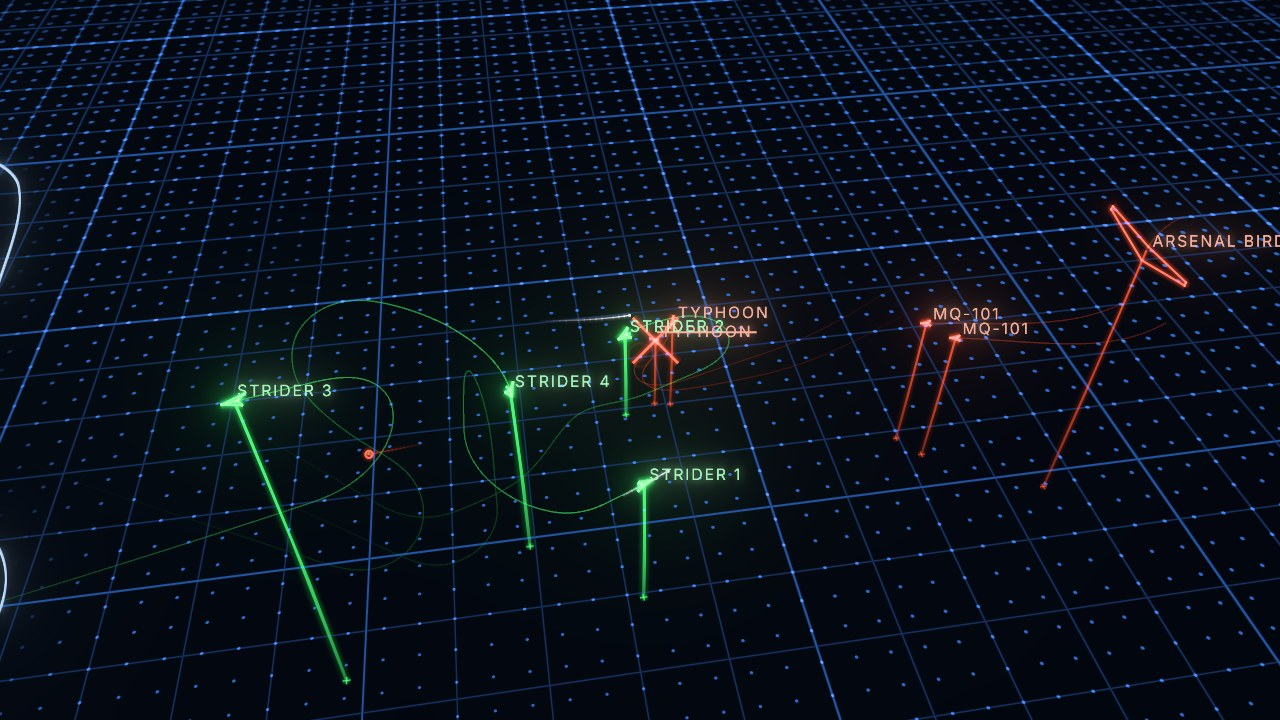
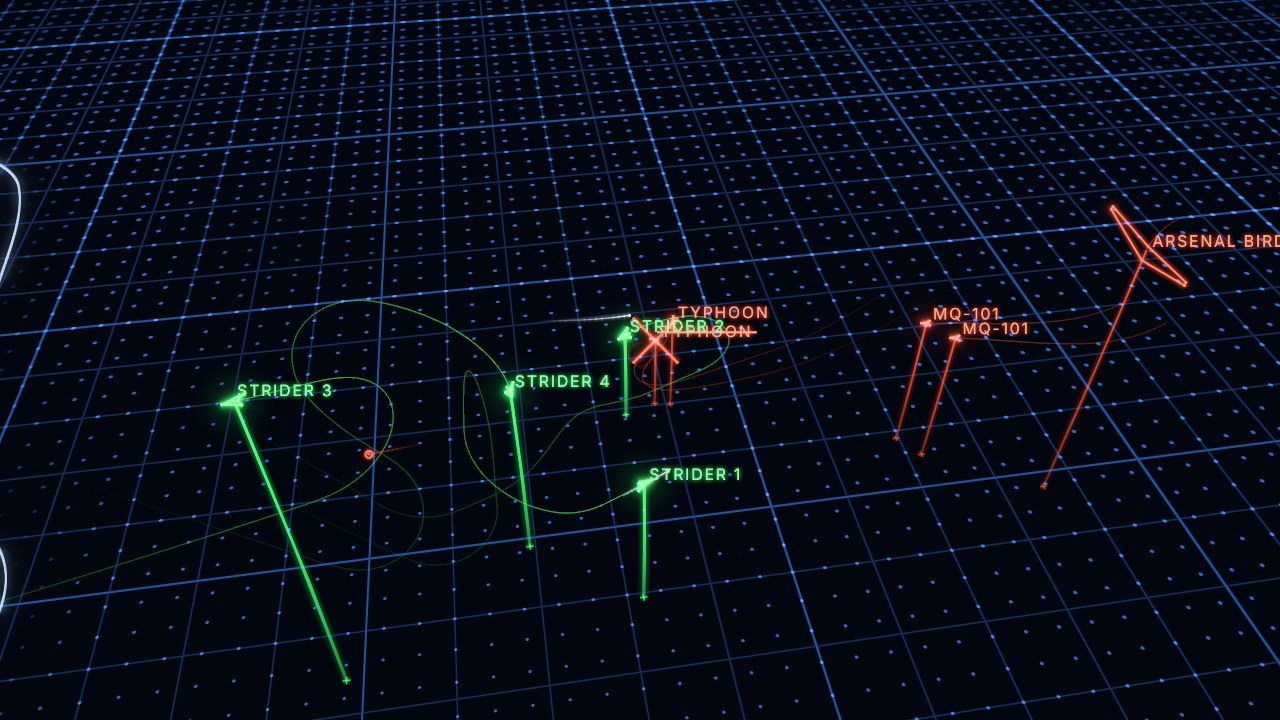
Bloom: a tight glow, names with their own baked halo again
- Names: the glow in the side's colour is baked into the label texture again (shadowBlur 14 / 6,
  as before r187), its alpha as LIN(a) so blending in linear light doesn't widen the halo; the
  half-resolution names pass into the bloom (PIPE.names, LABEL_LAYER) is gone — no blurred letters
- Bloom: only the two finest blur levels (BLOOM.mips -> bloomTintColors, radius 0): a distinct halo
  around glyphs, missiles and bursts instead of a wide haze
- Cache-buster v=52, preview.gif and screenshots re-rendered, docs updated

Claude-Session: https://claude.ai/code/session_01TyqJ8ZfWjb8MGaeFLXUS6D

diff --git a/js/core.js b/js/core.js
@@ -64,9 +64,10 @@ const TEX = {
 /* ===== Text labels =====
    One texture per (text, colour, struck), shared through LABEL_CACHE and reference-counted by setLabel: when no sprite
    shows a label any more (a colour or the squadron name changed) its texture is freed, so edits never pile up. Sprites with sizeAttenuation off keep a constant size on screen.
-   The look of the replay: wide-spaced, light, a near-white core in the side's tint — crisp: the glow around it comes
-   from bloom (property bloom, main.js PIPE), never baked into the texture (it would stay with bloom off and pile up
-   with it on). */
+   The look of the replay: wide-spaced, light, a near-white core in the side's tint over a tight glow in the side's
+   colour, baked into the texture (as before r187: clear letters with a distinct halo, not bloom's wide smudge). The
+   texture is blended in linear light, which would make the halo's faint tail look much wider: its alpha goes in as
+   LIN(a), so over the dark map it looks as it did when blended on screen. */
 const LABEL_FONT = 26, LABEL_H = 44, LABEL_PAD = 12;
 const LABEL_FACE = `400 ${LABEL_FONT}px "Bahnschrift", "Eurostile", "DIN Alternate", "Segoe UI", Arial, sans-serif`;
 const LABEL_CACHE = new Map();
@@ -74,13 +75,19 @@ function labelMat(text, color, struck) {
   const key = text + '|' + color + '|' + (struck ? 1 : 0);
   let m = LABEL_CACHE.get(key);
   if (m) return m;
-  const c = document.createElement('canvas'), g = c.getContext('2d');
+  const c = document.createElement('canvas'), g = c.getContext('2d', { willReadFrequently: true });   // read back once (the halo)
   const font = () => { g.font = LABEL_FACE; g.letterSpacing = '3px'; };
   font(); const w = Math.ceil(g.measureText(text).width) + LABEL_PAD * 2;
   c.width = w; c.height = LABEL_H; font();
   const L = THREE.LinearSRGBColorSpace, core = '#' + new THREE.Color().setStyle(color, L).lerp(PAL.white, 0.55).getHexString(L), y = LABEL_H / 2 + 1;   // blended on screen (sRGB), not in linear
-  g.textBaseline = 'middle'; g.fillStyle = core; g.fillText(text, LABEL_PAD, y);
-  if (struck) { g.strokeStyle = core; g.lineWidth = 3; g.beginPath(); g.moveTo(LABEL_PAD - 6, y); g.lineTo(w - LABEL_PAD + 6, y); g.stroke(); }
+  g.textBaseline = 'middle'; g.shadowColor = color; g.fillStyle = color;
+  g.shadowBlur = 14; g.fillText(text, LABEL_PAD, y); g.shadowBlur = 6; g.fillText(text, LABEL_PAD, y);
+  if (struck) { g.strokeStyle = color; g.shadowBlur = 8; g.lineWidth = 3; g.beginPath(); g.moveTo(LABEL_PAD - 6, y); g.lineTo(w - LABEL_PAD + 6, y); g.stroke(); }
+  const im = g.getImageData(0, 0, w, LABEL_H), d = im.data;   // the halo's alpha into linear light (the letters are opaque)
+  for (let i = 3; i < d.length; i += 4) d[i] = Math.round(LIN(d[i] / 255) * 255);
+  g.putImageData(im, 0, 0);
+  g.shadowBlur = 0; g.fillStyle = core; g.fillText(text, LABEL_PAD, y);
+  if (struck) { g.strokeStyle = core; g.stroke(); }
   const tex = new THREE.CanvasTexture(c); tex.colorSpace = THREE.SRGBColorSpace; tex.minFilter = THREE.LinearFilter; tex.generateMipmaps = false;
   m = new THREE.SpriteMaterial({ map: tex, transparent: true, depthWrite: false, depthTest: false, sizeAttenuation: false });
   m.userData.shared = true; m.userData.aspect = w / LABEL_H; m.userData.key = key; m.userData.refs = 0;
@@ -88,13 +95,12 @@ function labelMat(text, color, struck) {
   return m;
 }
 /* label sprite: bottom-left corner at the anchor; setLabel swaps its material */
-const LABEL_SCALE = 0.027;   // height at distance 1 (camera fov 40°: ≈ 3.7 % of the screen height, the padding included)
+const LABEL_SCALE = 0.027;   // height at distance 1 (camera fov 40°: ≈ 3.7 % of the screen height, the glow included)
 /* label size factor: names are a share of the screen height, so on screens narrower than square (phones in
    portrait) they shrink with the aspect (down to LABEL_MIN_K), or they would be as wide as the screen */
 const LABEL_MIN_K = 0.55, LABEL_SPRITES = [];   // every label sprite ever made (pooled with its unit: bounded)
 let LABEL_K = 1;
-const LABEL_LAYER = 1;   // names are on layer 1 too: the bloom source pass of the names (main.js PIPE.names)
-function makeLabel() { const s = new THREE.Sprite(); s.center.set(0.02, 0.3); s.renderOrder = 10; s.layers.enable(LABEL_LAYER); LABEL_SPRITES.push(s); return s; }
+function makeLabel() { const s = new THREE.Sprite(); s.center.set(0.02, 0.3); s.renderOrder = 10; LABEL_SPRITES.push(s); return s; }
 function sizeLabel(s) { const a = s.material.userData.aspect; if (a) s.scale.set(LABEL_SCALE * LABEL_K * a, LABEL_SCALE * LABEL_K, 1); }
 function setLabelScale(aspect) { LABEL_K = clamp(aspect, LABEL_MIN_K, 1); for (const s of LABEL_SPRITES) sizeLabel(s); }
 function setLabel(s, text, color, struck) {

diff --git a/js/main.js b/js/main.js
@@ -88,28 +88,21 @@ async function warmShaders() {
   const hidden = []; scene.traverse(o => { if (!o.visible) hidden.push(o); });
   const counts = [GLOW.mesh.count, LINES.mesh.geometry.instanceCount];
   hidden.forEach(o => { o.visible = true; }); GLOW.mesh.count = 1; LINES.mesh.geometry.instanceCount = 1;
-  const ps = [], mask = camera.layers.mask;
+  const ps = [];
   try {
     ps.push(PIPE.on ? PIPE.scene.compileAsync(renderer) : renderer.compileAsync(scene, camera));
-    if (PIPE.on) { camera.layers.set(LABEL_LAYER); ps.push(PIPE.names.compileAsync(renderer)); }   // its own target (half res, no MSAA)
-  } finally { camera.layers.mask = mask; hidden.forEach(o => { o.visible = false; }); GLOW.mesh.count = counts[0]; LINES.mesh.geometry.instanceCount = counts[1]; }
+  } finally { hidden.forEach(o => { o.visible = false; }); GLOW.mesh.count = counts[0]; LINES.mesh.geometry.instanceCount = counts[1]; }
   await Promise.race([Promise.all(ps.map(p => p.catch(e => { console.warn('shader warm-up failed', e); }))), new Promise(r => setTimeout(r, WARM_WAIT))]);
 }
 
-/* ---- render pipeline (RenderPipeline): the scene pass plus bloom (CFG.bloom: glow around what is brighter than the
-   threshold — glyph cores, missiles, bursts — and a highlight roll-off (rolloff()), so overlapping additive lines fade
-   to white instead of clipping). The names have no glow of their own (core.js labelMat) and their light cores sit
-   around the threshold (red ones below it): a half-resolution pass of LABEL_LAYER adds them × BLOOM.names to the
-   bloom's input only — every name glows, the text on screen and the map stay as they are.
-   Bloom off: plain renderer.render. ---- */
-const BLOOM = { strength: 0.15, radius: 0.45, threshold: 0.75, knee: 0.3, names: 1.2 };   // strength at CFG.bloomStrength = 100 %; threshold: linear luminance (glyph cores, not the map)
-const PIPE = { on: false, key: null, rp: null, scene: null, names: null, bloom: null };
-function initPipeline() {
-  PIPE.scene = THREE.TSL.pass(scene, camera);
-  const L = new THREE.Layers(); L.set(LABEL_LAYER);
-  PIPE.names = THREE.TSL.pass(scene, camera, { samples: 0 }).setResolutionScale(0.5); PIPE.names.setLayers(L);
-  PIPE.rp = new THREE.RenderPipeline(renderer);
-}
+/* ---- render pipeline (RenderPipeline): the scene pass plus bloom (CFG.bloom: a glow around what is brighter than the
+   threshold — glyph cores, missiles, bursts — kept tight: only the two finest blur levels (BLOOM.mips), so a glyph
+   gets a distinct halo, not a wide haze) and a highlight roll-off (rolloff()), so overlapping additive lines fade to white
+   instead of clipping. The names carry their own baked glow (core.js labelMat) and stay out of the bloom's input
+   (their cores sit around the threshold). Bloom off: plain renderer.render. ---- */
+const BLOOM = { strength: 0.15, radius: 0, threshold: 0.75, knee: 0.3, mips: [1, 0.5, 0, 0, 0] };   // strength at CFG.bloomStrength = 100 %; threshold: linear luminance (glyph cores, not the map); mips: weights of the blur levels (bloomTintColors), the wide ones off
+const PIPE = { on: false, key: null, rp: null, scene: null, bloom: null };
+function initPipeline() { PIPE.scene = THREE.TSL.pass(scene, camera); PIPE.rp = new THREE.RenderPipeline(renderer); }
 function updatePipeline() {   // after a property change; a new combination compiles its passes on the next frame
   if (!PIPE.rp) return;
   const k = bloomK(), key = k > 0 ? 'b' : '';
@@ -118,7 +111,8 @@ function updatePipeline() {   // after a property change; a new combination comp
   PIPE.key = key; PIPE.on = key !== '';
   if (PIPE.bloom) { PIPE.bloom.dispose(); PIPE.bloom = null; }
   if (!PIPE.on) return;
-  PIPE.bloom = THREE.bloom(PIPE.scene.add(PIPE.names.mul(BLOOM.names)), k, BLOOM.radius, BLOOM.threshold); PIPE.bloom.smoothWidth.value = BLOOM.knee;
+  PIPE.bloom = THREE.bloom(PIPE.scene, k, BLOOM.radius, BLOOM.threshold); PIPE.bloom.smoothWidth.value = BLOOM.knee;
+  PIPE.bloom.bloomTintColors.forEach((c, i) => c.setScalar(BLOOM.mips[i]));
   PIPE.rp.outputNode = rolloff(PIPE.scene.add(PIPE.bloom)); PIPE.rp.needsUpdate = true;
 }
 const bloomK = () => CFG.bloom ? BLOOM.strength * clamp(CFG.bloomStrength, 0, 300) / 100 : 0;

diff --git a/index.html b/index.html
@@ -4,28 +4,28 @@
 <meta charset="utf-8">
 <title>Wireframe Skies</title>
 <link rel="icon" type="image/svg+xml" href="favicon.svg">
-<link rel="stylesheet" href="style.css?v=51">
+<link rel="stylesheet" href="style.css?v=52">
 </head>
 <body>
 <canvas id="c"></canvas>
 <div id="splash"><div class="t">WIREFRAME SKIES</div><div class="s">LOADING MISSION DATA…</div><div class="dots"><i></i><i></i><i></i><i></i></div></div>
-<script src="js/three.min.js?v=51"></script>
-<script src="js/core.js?v=51"></script>
-<script src="js/noise.js?v=51"></script>
-<script src="js/terrain.js?v=51"></script>
-<script src="js/flight.js?v=51"></script>
-<script src="js/models.js?v=51"></script>
-<script src="js/effects.js?v=51"></script>
-<script src="js/audio.js?v=51"></script>
-<script src="js/squad.js?v=51"></script>
-<script src="js/forces.js?v=51"></script>
-<script src="js/enemies.js?v=51"></script>
-<script src="js/bosses.js?v=51"></script>
-<script src="js/allies.js?v=51"></script>
-<script src="js/camera.js?v=51"></script>
-<script src="js/main.js?v=51"></script>
-<script src="js/properties.js?v=51"></script>
-<script src="js/settings.js?v=51"></script>
+<script src="js/three.min.js?v=52"></script>
+<script src="js/core.js?v=52"></script>
+<script src="js/noise.js?v=52"></script>
+<script src="js/terrain.js?v=52"></script>
+<script src="js/flight.js?v=52"></script>
+<script src="js/models.js?v=52"></script>
+<script src="js/effects.js?v=52"></script>
+<script src="js/audio.js?v=52"></script>
+<script src="js/squad.js?v=52"></script>
+<script src="js/forces.js?v=52"></script>
+<script src="js/enemies.js?v=52"></script>
+<script src="js/bosses.js?v=52"></script>
+<script src="js/allies.js?v=52"></script>
+<script src="js/camera.js?v=52"></script>
+<script src="js/main.js?v=52"></script>
+<script src="js/properties.js?v=52"></script>
+<script src="js/settings.js?v=52"></script>
 <script>
   // Audio listener is registered at the end of <body>, as the Wallpaper Engine docs recommend
   if (window.wallpaperRegisterAudioListener) {

diff --git a/CLAUDE.md b/CLAUDE.md
@@ -42,7 +42,7 @@ Sister project and the reference for conventions: `wladbelsky/carrier-wallpaper`
 
 ## Rules / conventions
 - **After changing any JS/CSS file, bump the cache-buster** `?v=N` on all `<script>`/`<link>` tags in
-  `index.html` (WE's CEF caches aggressively). Current: `v=51`.
+  `index.html` (WE's CEF caches aggressively). Current: `v=52`.
 - **New WE property**: add it to `project.json`, read it in `applyUserProperties` (`main.js`) into `CFG`,
   then run `python tools/gen_properties.py`. Property `order` decides the browser-drawer group
   (0–9 camera, 10–19 audio & combat, 20–29 look, 30–39 flight). `repo.spec.js` checks every property is read.
@@ -194,18 +194,17 @@ Sister project and the reference for conventions: `wladbelsky/carrier-wallpaper`
   tuned on screen (line alphas, trail fades, the line core / halo profile) go in as `LIN(a)` = a^2.2, so the look
   holds; the ground composes the map in display space (sRGB palette uniforms, `GROUND_K`, anti-aliased coverage) and
   converts it to linear once (`sRGBTransferEOTF`) — the r149 map exactly; label canvases are `SRGBColorSpace`
-  textures (their core colour is blended in sRGB) with crisp text and **no baked glow** (no `shadowBlur`): bloom
-  makes the glow, so names are clean with it off and don't get a double halo with it on. Label sprites are also on
-  `LABEL_LAYER` (1): `PIPE.names`, a half-resolution pass of that layer, is added × `BLOOM.names` to the bloom's input
-  only, so every name glows (red cores sit below the threshold) without changing the text or the map. Additive overlaps add up in linear light (brighter where lines
-  cross) and roll off to white (`rolloff`).
+  textures (their core colour is blended in sRGB) with a **baked, tight glow** (`shadowBlur` in the side's colour —
+  bloom's glow is too wide for text: blurred letters); the halo's alpha goes in as `LIN(a)` (blended in linear light
+  its faint tail would look much wider), so it looks as in r149. Names are not fed to the bloom separately. Additive
+  overlaps add up in linear light (brighter where lines cross) and roll off to white (`rolloff`).
 - **Render pipeline** (`PIPE`, `main.js`; `renderFrame()` is the only place that renders a frame): with bloom on, a
   `THREE.RenderPipeline` of `pass(scene, camera)` + `THREE.bloom` (strength `BLOOM.strength` × the `bloomstrength`
-  property, radius, luminance threshold, soft knee) + `rolloff()` (identity below 0.76, a soft shoulder to white —
+  property, luminance threshold, soft knee; only the two finest blur levels, `BLOOM.mips` → `bloomTintColors`: a
+  distinct halo around the glyphs, no wide haze) + `rolloff()` (identity below 0.76, a soft shoulder to white —
   as in carrier-wallpaper); bloom off (property `bloom`): plain `renderer.render`. `updatePipeline()` rebuilds the output
   node when the property flips (that combination compiles on its next frame).
-- **Shader warm-up** (`warmShaders`): `compileAsync` of the scene (or the scene pass, and `PIPE.names` with the camera
-  on `LABEL_LAYER`: its own target) before the loop starts, hidden
+- **Shader warm-up** (`warmShaders`): `compileAsync` of the scene (or the scene pass) before the loop starts, hidden
   objects shown and empty pools given one instance during its synchronous part (node `compile()` walks only visible
   objects). The first frame compiles only the small post passes (bloom, output quad) — under the splash;
   `render.spec.js` checks nothing compiles after that, a boss fight included. A new material created at runtime would

diff --git a/README.md b/README.md
@@ -67,7 +67,7 @@ Subscribe on the [Steam Workshop](https://steamcommunity.com/sharedfiles/filedet
 | Flight / enemy / ally / grid & sea / coast, contour & city colour | the palette |
 | Trail length, s | 0 = no trails |
 | Altitude lines, Names | the vertical lines to the ground and the callsigns / target names |
-| Bloom, Bloom strength, % | a soft glow around glyphs, missiles, bursts and names (off: crisp lines only) |
+| Bloom, Bloom strength, % | a tight glow around glyphs, missiles and bursts (off: their own line halo only; names always carry their own glow) |
 | Squadron callsign | the planes are called `<callsign> 1…4` (letters, digits, spaces, up to 14 characters) |
 | Flight speed, % | how fast everything moves |
 
